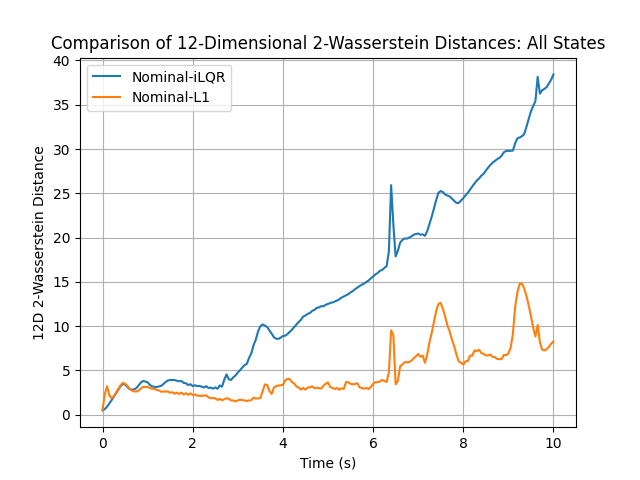
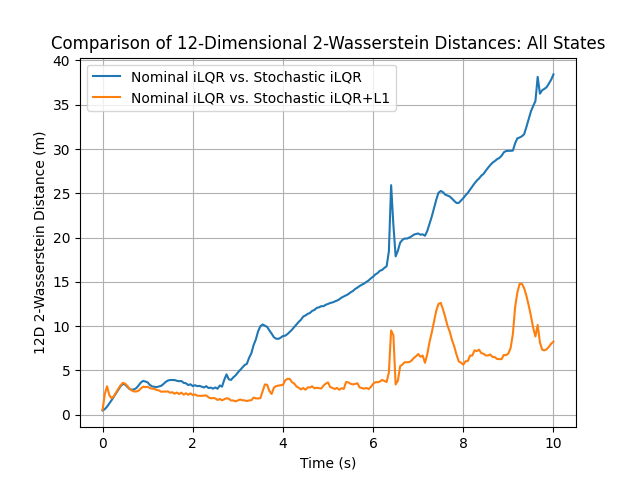
Updated relevant W2 and CVaR figures

Changed region(s): [[0.1875, 0.125, 0.625, 0.25], [0.0312, 0.2812, 0.0938, 0.7188]]

diff --git a/JustinWork/Julia/CVaR_Sine.py b/JustinWork/Julia/CVaR_Sine.py
@@ -3,13 +3,6 @@ import matplotlib.pyplot as plt
 import seaborn as sns
 import ot
 
-def distance_distribution(system, obstacle_pos, radius):
-    distances = np.zeros((system.shape[0],system.shape[1]))
-    for tstep in range(system.shape[1]):
-        for trial in range(system.shape[0]):
-            distances[trial, tstep] = np.linalg.norm(system[trial, tstep, 0:3] - obstacle) - radius
-    return distances
-
 def distance_distribution_corridor(system, path):
     distances = np.zeros((system.shape[0],system.shape[1]))
     for tstep in range(system.shape[1]):
@@ -55,7 +48,7 @@ resolution = 50 # Number of points to interpolate between waypoints for plotting
 confidence_level = 0.999     # Confidence level for CVaR
 
 # Path to the directory of this file
-data_dir = "/home/justi/ME-598-Quadcopter/JustinWork/Julia/data/strong_15_85_2hz_clearance_planned/"   # Path to data
+data_dir = "/home/justi/ME-598-Quadcopter/JustinWork/Julia/data/severe_10_70_3hz_clearance_planned/"   # Path to data
 
 nom_name = "states_nominal"
 true_name = "states_true"
@@ -74,37 +67,6 @@ true_u = true_states['u']
 L1_u = L1_states['u']
 
 path = corridor_path_sine(t[-1], t.shape[0])
-#Debugging tools
-#trial = 19
-#tstep = 200
-#plt.figure()
-#plt.scatter(path[:,0], path[:,1], label = "Corridor Centerline")
-#plt.scatter(L1_u[trial,tstep,0], L1_u[trial,tstep,1], label = "L1 Sample Point")
-#plt.legend()
-
-#Trajectories plotting
-plt.figure()
-for trial in range(L1_u.shape[0]):
-    plt.plot(L1_u[trial,:,0], L1_u[trial,:,1])
-plt.plot(path[:,0], path[:,1], label = "Corridor Centerline", linestyle='dashed', color='black')
-plt.xlabel("X (m)")
-plt.ylabel("Y (m)")
-plt.title(f"Position Trajectories")
-plt.grid(True)
-plt.show()
-
-#Trajectories plotting
-ax = plt.figure().add_subplot(projection='3d')
-for trial in range(L1_u.shape[0]):
-    plt.plot(L1_u[trial,:,0], L1_u[trial,:,1], L1_u[trial,:,2])
-plt.plot(path[:,0], path[:,1], path[:,2], label = "Corridor Centerline", linestyle='dashed', color='black')
-ax.set_xlabel("X (m)")
-ax.set_ylabel("Y (m)")
-ax.set_zlabel("Z (m)")
-plt.title(f"Position Trajectories")
-plt.grid(True)
-ax.set_aspect('equal')
-plt.show()
 
 nom_u_dist = distance_distribution_corridor(nom_u, path)
 true_u_dist = distance_distribution_corridor(true_u, path)
@@ -119,20 +81,19 @@ for tstep in range(t.shape[0]):
     true_u_stats[:, tstep] = calculate_stats(true_u_dist[:, tstep], confidence_level)
     L1_u_stats[:, tstep] = calculate_stats(L1_u_dist[:, tstep], confidence_level)
 
-plt.figure()
+#plt.figure()
 #plt.plot(t, nom_u_stats[0,:], color="#FF0000", label = f"Nominal-VaR, max = {nom_u_stats[0,:].max():.2f} m")
-plt.plot(t, nom_u_stats[1,:], color="#FF7070", label = f"Nominal-CVaR, max = {nom_u_stats[1,:].max():.2f} m")
+#plt.plot(t, nom_u_stats[1,:], color="#FF7070", label = f"Nominal iLQR, max = {nom_u_stats[1,:].max():.2f} m")
 #plt.plot(t, true_u_stats[0,:], color="#00FF00", label = f"True-VaR, max = {true_u_stats[0,:].max():.2f} m")
-plt.plot(t, true_u_stats[1,:], color="#70FF70", label = f"True-CVaR, max = {true_u_stats[1,:].max():.2f} m")
+#plt.plot(t, true_u_stats[1,:], color="#70FF70", label = f"Stochastic iLQR, max = {true_u_stats[1,:].max():.2f} m")
 #plt.plot(t, L1_u_stats[0,:], color="#0000FF", label = f"L1-VaR, max = {L1_u_stats[0,:].max():.2f} m")
-plt.plot(t, L1_u_stats[1,:], color="#7070FF", label = f"L1-CVaR, max = {L1_u_stats[1,:].max():.2f} m")
-plt.xlabel("Time (s)")
-plt.ylabel(f"VaR or CVaR (m)")
+#plt.plot(t, L1_u_stats[1,:], color="#7070FF", label = f"Stochastic iLQR+L1, max = {L1_u_stats[1,:].max():.2f} m")
+#plt.xlabel("Time (s)")
+#plt.ylabel(f"CVaR (m)")
 #plt.title(f"Value at Risk (VaR) and Conditional Value at Risk (CVaR) Over Time")
-plt.title(f"Conditional Value at Risk (CVaR) Over Time")
-
-plt.grid(True)
-plt.legend()
+#plt.title(f"Conditional Value at Risk (CVaR) Over Time")
+#plt.grid(True)
+#plt.legend()
 
 
 plt.figure()
@@ -141,12 +102,11 @@ plt.figure()
 #plt.plot(t, true_u_stats[0,:], color="#00FF00", label = f"True-VaR, max = {true_u_stats[0,:].max():.2f} m")
 #plt.plot(t, true_u_stats[1,:], color="#70FF70", label = f"True-CVaR, max = {true_u_stats[1,:].max():.2f} m")
 #plt.plot(t, L1_u_stats[0,:], color="#0000FF", label = f"L1-VaR, max = {L1_u_stats[0,:].max():.2f} m")
-plt.plot(t, L1_u_stats[1,:], color="#7070FF", label = f"L1-CVaR, max = {L1_u_stats[1,:].max():.2f} m")
+plt.plot(t, L1_u_stats[1,:], color="#7070FF", label = f"Stochastic iLQR+L1, max = {L1_u_stats[1,:].max():.2f} m")
 plt.xlabel("Time (s)")
-plt.ylabel(f"VaR or CVaR (m)")
+plt.ylabel(f"CVaR (m)")
 #plt.title(f"Value at Risk (VaR) and Conditional Value at Risk (CVaR) Over Time")
 plt.title(f"Conditional Value at Risk (CVaR) Over Time")
-
 plt.grid(True)
 plt.legend()
 plt.show()

diff --git a/JustinWork/Julia/Wasserstein.py b/JustinWork/Julia/Wasserstein.py
@@ -3,12 +3,12 @@ import matplotlib.pyplot as plt
 import ot
 
 # SETUP
-state_list = [0,1,2,3,4,5,6,7,8,9,10,11]    # Select states to plot w2 data for
+state_list = []    # Select states to plot w2 data for
 state_registry = ["X", "Y", "Z", "Vx", "Vy", "Vz", "Roll", "Pitch", "Yaw", "Roll Rate", "Pitch Rate", "Yaw Rate"]
 w2_12 = True    # Whether to plot the 12D w2 data
 
 # Path to the directory of this file
-data_dir = "/home/justi/ME-598-Quadcopter/JustinWork/Julia/data/strong_15_85_2hz_clearance_planned/"   # Path to data
+data_dir = "/home/justi/ME-598-Quadcopter/JustinWork/Julia/data/variable_thrust/"   # Path to data
 
 nom_name = "states_nominal"
 true_name = "states_true"
@@ -37,9 +37,10 @@ c = np.ones(L1_u.shape[0]) / L1_u.shape[0]
 
 # Wasserstein distance between nominal and true (nt) and nominal and L1 (nl) systems at each timestep for each state and for all states together
 for tstep in range(0,nom_u.shape[1]):
-    for state in range(0,nom_u.shape[2]):   # 2-Wasserstein distance per state
-        w2_nt[state, tstep] = ot.wasserstein_1d(nom_u[:,tstep,state], true_u[:,tstep,state], p=p)
-        w2_nl[state, tstep] = ot.wasserstein_1d(nom_u[:,tstep,state], L1_u[:,tstep,state], p=p)
+    if state_list != []:
+        for state in range(0,nom_u.shape[2]):   # 2-Wasserstein distance per state
+            w2_nt[state, tstep] = ot.wasserstein_1d(nom_u[:,tstep,state], true_u[:,tstep,state], p=p)
+            w2_nl[state, tstep] = ot.wasserstein_1d(nom_u[:,tstep,state], L1_u[:,tstep,state], p=p)
     
     if w2_12:   # 12-D 2-Wasserstein distance across all states
         # p here refers to the type of norm and not wasserstein moment - must be 2
@@ -51,18 +52,18 @@ for tstep in range(0,nom_u.shape[1]):
 if state_list != []:
     for state in state_list:
         plt.figure()
-        plt.plot(t, w2_nt[state,:], label = "Nominal-iLQR")
-        plt.plot(t, w2_nl[state,:], label = "Nominal-L1")
+        plt.plot(t, w2_nt[state,:], label = "Nominal iLQR vs. Stochastic iLQR")
+        plt.plot(t, w2_nl[state,:], label = "Nominal iLQR vs. Stochastic iLQR+L1")
         plt.xlabel("Time (s)")
-        plt.ylabel(f"{p}-Wasserstein Distance")
+        plt.ylabel(f"{p}-Wasserstein Distance (m)")
         plt.title(f"Comparison of {p}-Wasserstein Distances: State {state_registry[state]}")
         plt.grid(True)
         plt.legend()
 
 if w2_12:
     plt.figure()
-    plt.plot(t, w2_nt12, label = "Nominal-iLQR")
-    plt.plot(t, w2_nl12, label = "Nominal-L1")
+    plt.plot(t, w2_nt12, label = "Nominal iLQR vs. Stochastic iLQR")
+    plt.plot(t, w2_nl12, label = "Nominal iLQR vs. Stochastic iLQR+L1")
     plt.xlabel("Time (s)")
     plt.ylabel(f"12D {p}-Wasserstein Distance")
     plt.title(f"Comparison of 12-Dimensional {p}-Wasserstein Distances: All States")

diff --git a/JustinWork/Julia/CVaR.py b/JustinWork/Julia/CVaR.py
@@ -30,7 +30,7 @@ confidence_level = 0.05     # Confidence level for CVaR
 
 
 # Path to the directory of this file
-data_dir = "/home/justi/ME-598-Quadcopter/JustinWork/Julia/data/free_flight/"   # Path to data
+data_dir = "/home/justi/ME-598-Quadcopter/JustinWork/Julia/data/baseline/"   # Path to data``
 
 nom_name = "states_nominal"
 true_name = "states_true"